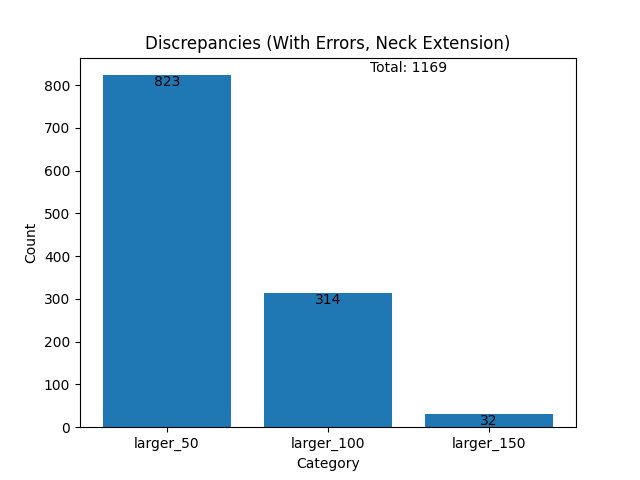
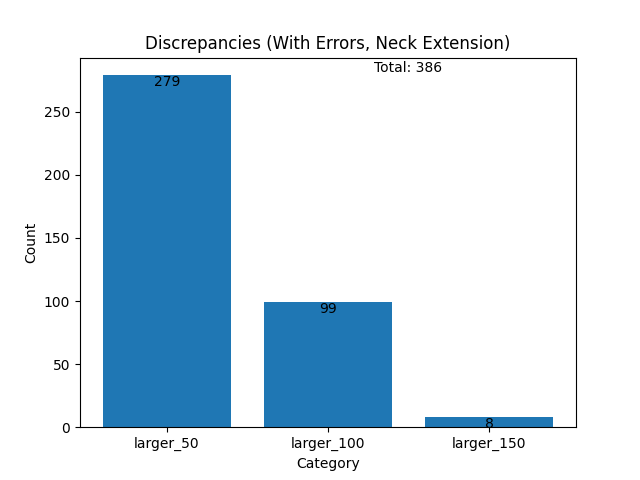
1. Added visualization of mean values on one plot grouped by posture label 2. Code refactoring

diff --git a/main.py b/main.py
@@ -4,51 +4,48 @@ import data_processor as dp
 import config_reader as cr
 
 
-def show_discrepancies(df: pd.DataFrame, category=None) -> None:
-    column_name = cr.get("discrepancies_column")
-    discrepancies_data: dict[str, list[int]] = dp.get_discrepancies(df[column_name].tolist())
-    if category is not None:
-        title_bar = f"Discrepancies ({df.name}, {category})"
-    else:
-        title_bar = f"Discrepancies ({df.name})"
-    dp.show_bar_chart(discrepancies_data, title=title_bar)
+def main() -> None:
+    def show_discrepancies(df: pd.DataFrame, category=None) -> None:
+        column_name = cr.get("discrepancies_column")
+        discrepancies_data: dict[str, list[int]] = dp.get_discrepancies(df[column_name].tolist())
+        if category is not None:
+            title_bar = f"Discrepancies ({df.name}, {category})"
+        else:
+            title_bar = f"Discrepancies ({df.name})"
+        dp.show_bar_chart(discrepancies_data, title=title_bar)
 
+    def show_data_per_subject(df_passed: pd.DataFrame, sensor_cols: list[str], test=False) -> None:
+        dataframes_subjects = dp.split_per_person(df=df_passed, num_splits=5)
+        for i, df in enumerate(dataframes_subjects):
+            subject_num = f"Subject {i+1}"
+            print(subject_num)
+            # df = dc.exclude_errors(df)
+            df.name = "With Errors"
 
-def show_data_per_subject(df_passed: pd.DataFrame, test=False) -> None:
-    dataframes_subjects = dp.split_per_person(df=df_passed, num_splits=5)
-    for i, df in enumerate(dataframes_subjects):
-        subject_num = f"Subject {i+1}"
-        print(subject_num)
-        # df = dc.exclude_errors(df)
-        df.name = "With Errors"
+            """ Process data """
+            # dp.find2_correlations(df, col1="Horizontal distance between eyes and head posture device", col2="Sensor 2")
+            head_data     = dp.get_compressed_data_group(df, group_column=f"Head Posture", columns_to_compress=sensor_cols)
+            shoulder_data = dp.get_compressed_data_group(df, group_column=f"Shoulder Posture", columns_to_compress=sensor_cols)
+            dp.show_subplots(data=head_data, title=f"Head Positions (Subject {i+1})", columns_to_compress=sensor_cols)
+            dp.show_subplots(data=shoulder_data, title=f"Shoulder positions (Subject {i+1})", columns_to_compress=sensor_cols)
+            if i == 0 and test is True:
+                # stop at the first iteration
+                break
 
-        """ Process data """
-        # dp.find2_correlations(df, col1="Horizontal distance between eyes and head posture device", col2="Sensor 2")
-        head_data     = dp.get_compressed_data_group(df, group_column=f"Head Posture", columns_to_compress=columns_to_compress)
-        shoulder_data = dp.get_compressed_data_group(df, group_column=f"Shoulder Posture", columns_to_compress=columns_to_compress)
-        dp.show_subplots(data=head_data, title=f"Head Positions (Subject {i+1})", columns_to_compress=columns_to_compress)
-        dp.show_subplots(data=shoulder_data, title=f"Shoulder positions (Subject {i+1})", columns_to_compress=columns_to_compress)
-        if i == 0 and test is True:
-            # stop at the first iteration
-            break
+    def show_all_values(df_orig: pd.DataFrame, cols: list[str]) -> None:
+        zipped = dp.compress_sensors_data(df_orig, columns=cols)
+        dp.show_subplots(data={"All Sensors": zipped},
+                         title=f"All data ({df_orig.name})",
+                         columns_to_compress=cols)
 
-
-def show_all_values(df_orig: pd.DataFrame, cols: list[str]) -> None:
-    zipped = dp.compress_sensors_data(df_orig, columns=cols)
-    dp.show_subplots(data={"All Sensors": zipped},
-                     title=f"All data ({df_orig.name})",
-                     columns_to_compress=cols)
-
-
-if __name__ == '__main__':
     """ Extract and clean data  """
     file = cr.get("input_csv_file_path")
     df_original = pd.read_csv(file, delimiter=",")
     # df_original = df_original.iloc[:4320]  # get only first 2 subjects only
     df_original.name = "With Errors"
     dc.strip_columns(df_original)
-    df_original[cr.get("discrepancies_column")] = df_original["Sensor 4"] - df_original["Sensor 2"]
-    columns_to_compress = cr.get("columns_to_compress")
+    dp.calculate_discrepancies_column(df=df_original, column_name=cr.get("discrepancies_column"))
+    sensor_columns = cr.get("sensor_columns")
 
     """ Describe sensors basic statistics """
     dp.describe_sensors_values(df_original)  # includes errors
@@ -61,7 +58,7 @@ if __name__ == '__main__':
     print("Total INVALID rows:\t", df_original.shape[0]-df_cleaned.shape[0])
     print('\n')
 
-    show_all_values(df_original, cols=columns_to_compress)
+    show_all_values(df_original, cols=sensor_columns)
 
     """ Save DF """
     # file = "data_storage/output_data/df_cleaned.csv"
@@ -69,10 +66,10 @@ if __name__ == '__main__':
 
     size_data = dp.get_compressed_data_group(df_cleaned,
                                              group_column=f"Size",
-                                             columns_to_compress=columns_to_compress)
+                                             columns_to_compress=sensor_columns)
     dp.show_subplots(data=size_data,
                      title=f"Shoulder Size vs Sensors",
-                     columns_to_compress=columns_to_compress)
+                     columns_to_compress=sensor_columns)
 
     """ Show correlations and basic math """
     dp.find_group_description(df_original, column_name="Head Posture")
@@ -83,7 +80,7 @@ if __name__ == '__main__':
     dp.visualize_clusters(df_cleaned, label_col="Shoulder Posture")
 
     """ Show information per subject """
-    # show_data_per_subject(df_passed=df_original)
+    # show_data_per_subject(df_passed=df_original, sensor_cols=sensor_columns)
     columns = cr.get("correlation_map_columns")
     dp.show_corr_map(df_original[columns], notes="ALL")
 
@@ -96,8 +93,26 @@ if __name__ == '__main__':
                               title_note=str(width))
 
     """ Show discrepancies per head posture """
-    groups = df_original.groupby("Head Posture")
+    groups = df_cleaned.groupby("Head Posture")
     for head, data in groups:
         df_head = groups.get_group(head)
         df_head.name = "With Errors"
         show_discrepancies(df_head, category=str(head))
+
+    """ Show correlation between postures and other parameters """
+    cols = ["Width of shoulders",
+            "Vertical distance between shoulderes and table surface (shoulder normal)",
+            "Vertical distance between shoulderes and table surface (round shoulder)",
+            "Vertical distance between eye level and table surface",
+            "Vertical distance between Head posture device and table surface",
+            "Vertical distance between Chair and the ground",
+            "Horizational Distance (CM)",
+            "Horizontal distance between eyes and head posture device",
+            "Head Posture"]
+    df_sorted = df_cleaned[cols]
+    df_sorted.name = "No Errors"
+    dp.show_one_plot_grouped_by(df_sorted, grouping_col_name="Head Posture")
+
+
+if __name__ == '__main__':
+    main()

diff --git a/data_processor.py b/data_processor.py
@@ -344,3 +344,39 @@ def show_bar_chart(data, title: str) -> None:
     # plt.show()
     plt.savefig(rename_img_file(title))
     plt.close()
+
+
+def calculate_discrepancies_column(df: pd.DataFrame, column_name: str) -> None:
+    """ Add (inplace) the column with discrepancies """
+    first_col = column_name.split("-")[0].strip()
+    second_col = first_col.split(" ")[0] + " " + column_name.split("-")[1].strip()
+    df[cr.get("discrepancies_column")] = df[first_col] - df[second_col]
+
+
+def show_one_plot_grouped_by(df: pd.DataFrame, grouping_col_name: str) -> None:
+    """ Show subplots between the postures and values of other columns """
+    import seaborn as sns
+    import pandas as pd
+    import matplotlib.pyplot as plt
+
+    # Group the data by head posture
+    grouped_data = df.groupby(grouping_col_name).mean().reset_index()
+
+    # Reshape the data to long format
+    melted_data = pd.melt(grouped_data, id_vars=[grouping_col_name], var_name='Measurement', value_name='Value')
+
+    # Plot the data
+    plt.figure(figsize=(10, 12))
+    sns.lineplot(data=melted_data, x=grouping_col_name, y='Value', hue='Measurement', marker='o')
+
+    # Set the plot title and labels
+    plt.title('Measurements Grouped by Head Posture')
+    plt.xlabel(grouping_col_name)
+    plt.ylabel('Measurement')
+
+    # Rotate the x-axis labels for better visibility
+    plt.xticks(rotation=30)
+
+    # Show the plot
+    # plt.show()
+    plt.savefig(rename_img_file(name=f"Posture vs Others params ({df.name})"))
